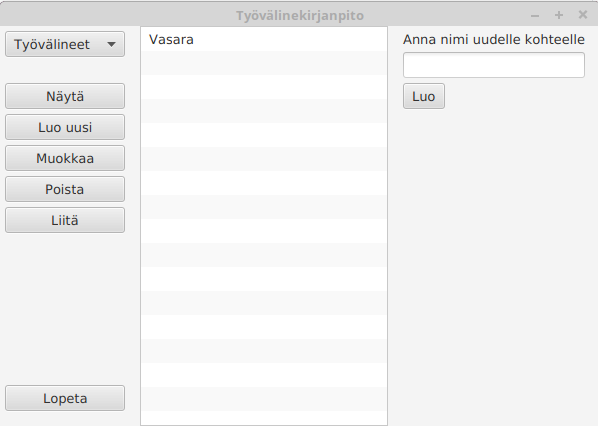
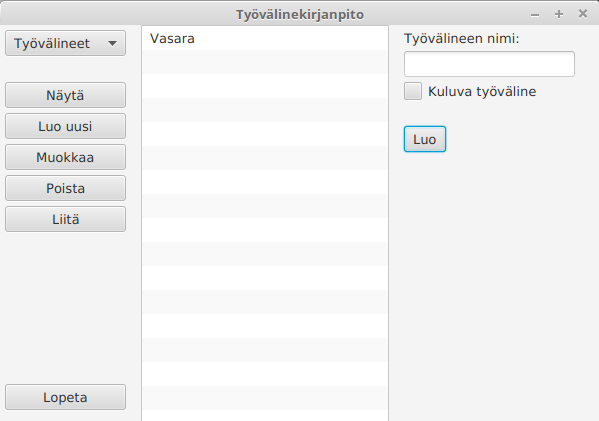
Käyttöohjeen päivitys

Changed region(s): [[0.0, 0.0618, 0.6321, 1.0], [0.0, 0.0, 1.0, 0.1235], [0.6622, 0.1853, 0.903, 0.3705]]

diff --git a/dokumentaatio/kayttoohje.md b/dokumentaatio/kayttoohje.md
@@ -1,6 +1,7 @@
 # Käyttöohje
 
-Lataa tiedosto [tyovalinekirjanpito.jar](https://github.com/ejronty/ot_harjoitus/releases/tag/viikko6)
+Lataa tiedostot [tyovalinekirjanpito.jar](https://github.com/ejronty/ot_harjoitus/releases/tag/Viikko7)
+ja [config.properties](https://github.com/ejronty/ot_harjoitus/releases/tag/Viikko7) 
 
 ## Konfigurointi
 
@@ -26,7 +27,7 @@ Vasemman yläreunan pudotusvalikosta voi valita, käsitelläänkö työvälineit
 ## Uuden työvälineen / toimipisteen luominen
 
 Ohjelmaan saa luotua uuden kohteen painamalla vasemman reunan päävalikosta nappia 'Luo uusi'.
-Avautuu näkymä, johon voi antaa uuden kohteen nimen. Vasemman reunan pudotusvalikko määrää, kumman tyyppinen kohde luodaan.
+Avautuu näkymä, johon voi antaa uuden kohteen nimen. Vasemman reunan pudotusvalikko määrää, kumman tyyppinen kohde luodaan. Työvälineen tapauksessa voi määritetään myös, onko kyseessä kuluva työväline. Esimerkkinä vasara ei kulu käytettäessä, mutta naulat kuluvat.
 
 ![luo_uusi](kuvat/luo_uusi.png)
 
@@ -36,7 +37,7 @@ Jos välineen luominen onnistui, päivittyy ikkunan keskellä oleva lista.
 
 ## Kohteen nimen muuttaminen
 
-Jos kohdetta luodessa sattui virhe, voi kohteen nimeä muuttaa valitsemalla kohteen listasta ja painamalla nappia 'Muokkaa'. Avautuu näkymä, johon voi syöttää kohteelle uuden nimen.
+Jos kohdetta luodessa sattui virhe, voi kohteen nimeä muuttaa valitsemalla kohteen listasta ja painamalla nappia 'Muokkaa'. Avautuu näkymä, johon voi syöttää kohteelle uuden nimen. Työvälineen tapauksessa voi myös vaihtaa tietoa kuluvuudesta.
 
 ![muokkaa](kuvat/muokkaa.png)
 
@@ -52,19 +53,30 @@ Avautuu näkymä, jossa käyttäjä voi varmistaa poiston.
 ## Työvälineen liittäminen toimipisteeseen
 
 Liittääkseen työvälineen toimipisteeseen käyttäjän on valittava listasta työväline, ja painettava päävalikon nappia 'Liitä'.
-Avautuu näkymä, jossa on lista toimipisteistä, jotka eivät vielä sisällä kyseistä työvälinettä.
+Avautuu näkymä, jossa on lista toimipisteistä, jotka eivät vielä sisällä kyseistä työvälinettä. Näkymässä on myös kenttä, johon käyttäjä voi syöttää lukumäärän liitettävälle työvälineelle.
 
 ![mihin_liitetaan](kuvat/mihin_liitetaan.png)
 
-Tästä uudesta listasta valitaan haluttu toimipiste, ja painetaan 'Valitse'. Jos liitos onnistui, aukeaa näkymä, jossa on lista kaikista toimipisteistä, joihin työväline on liitetty.
+Tästä uudesta listasta valitaan haluttu toimipiste, ja painetaan 'Valitse'. Jos liitos onnistui, aukeaa näkymä, jossa on lista kaikista toimipisteistä, joihin työväline on liitetty, ja välineen lukumääristä näissä toimipisteissä.
 Prosessi toimii hyvin samankaltaisesti myös toimipisteiden näkymästä.
 
 ## Kohteen tietojen näyttäminen
 
-Kohteen tiedot (liitetyt työvälineet tai toimipisteet) saa näkyviin valitsemalla kohteen listasta ja painamalla päävalikon nappia 'Näytä'.
+Kohteen tiedot (liitetyt työvälineet tai toimipisteet) saa näkyviin valitsemalla kohteen listasta. Tiedot saa näkyviin myös painamalla päävalikon nappia 'Näytä'.
 
 ![nayta](kuvat/nayta.png)
 
+
 ## Työvälineen poistaminen toimipisteestä
 
-Työvälineen saa poistettua toimipisteestä näyttämällä kohteen tiedot, valitsemalla näkymästä riippuen poistettavan työvälineen, tai toimipisteen, josta työväline poistetaan, ja painamalla 'Poista valittu'. Kohteen tiedot näyttävä lista päivittyy merkiksi, että poisto on onnistunut.
+Työvälineen saa poistettua toimipisteestä näyttämällä työvälineen tiedot, valitsemalla poistettavan toimipisteen ja painamalla 'Poista valittu'. Kohteen tiedot näyttävä lista päivittyy merkiksi, että poisto on onnistunut.
+
+## Työvälineen määrän muutokset
+
+Työvälineen määrää saa muutettua valitsemalla työvälineen toimipisteen näkymstä. Tällöin näkyviin tulee uusia toimintoja.
+
+![uudet_napit](kuvat/uudet_napit.png)
+
+Näiden painikkeiden avulla voi muuttaa työvälineen lukumäärää toimipisteellä, siirtää työvälineitä toimipisteeltä toiselle tai poistaa työvälineen toimipisteeltä.
+
+
